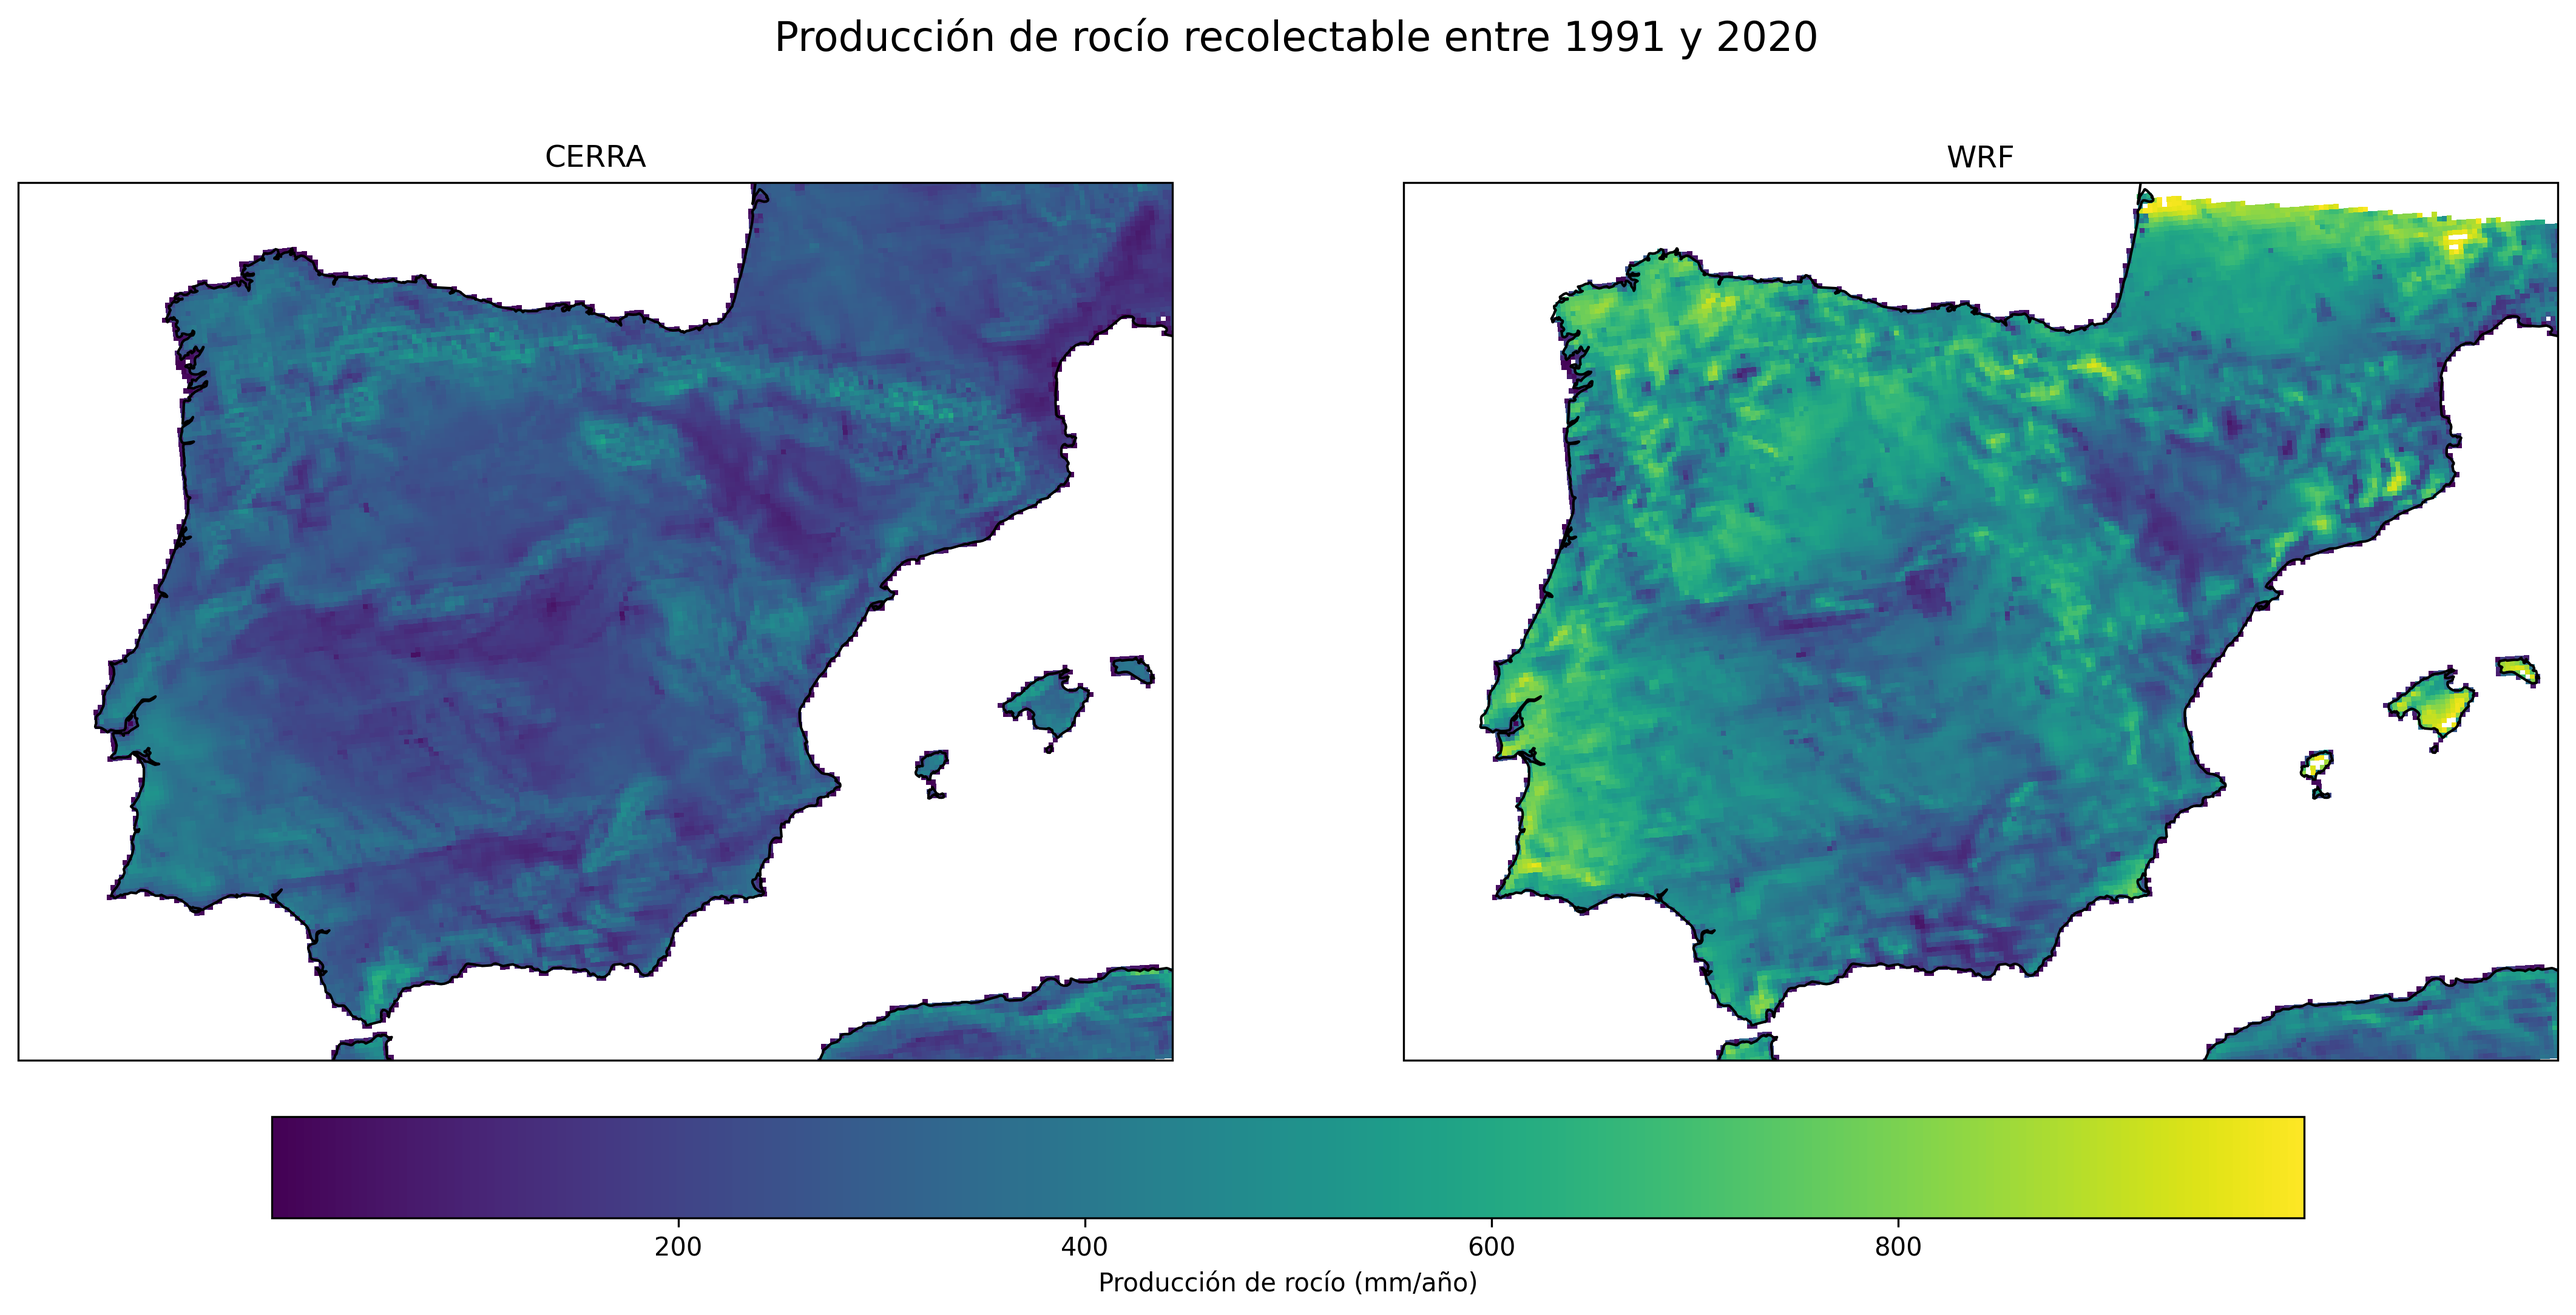
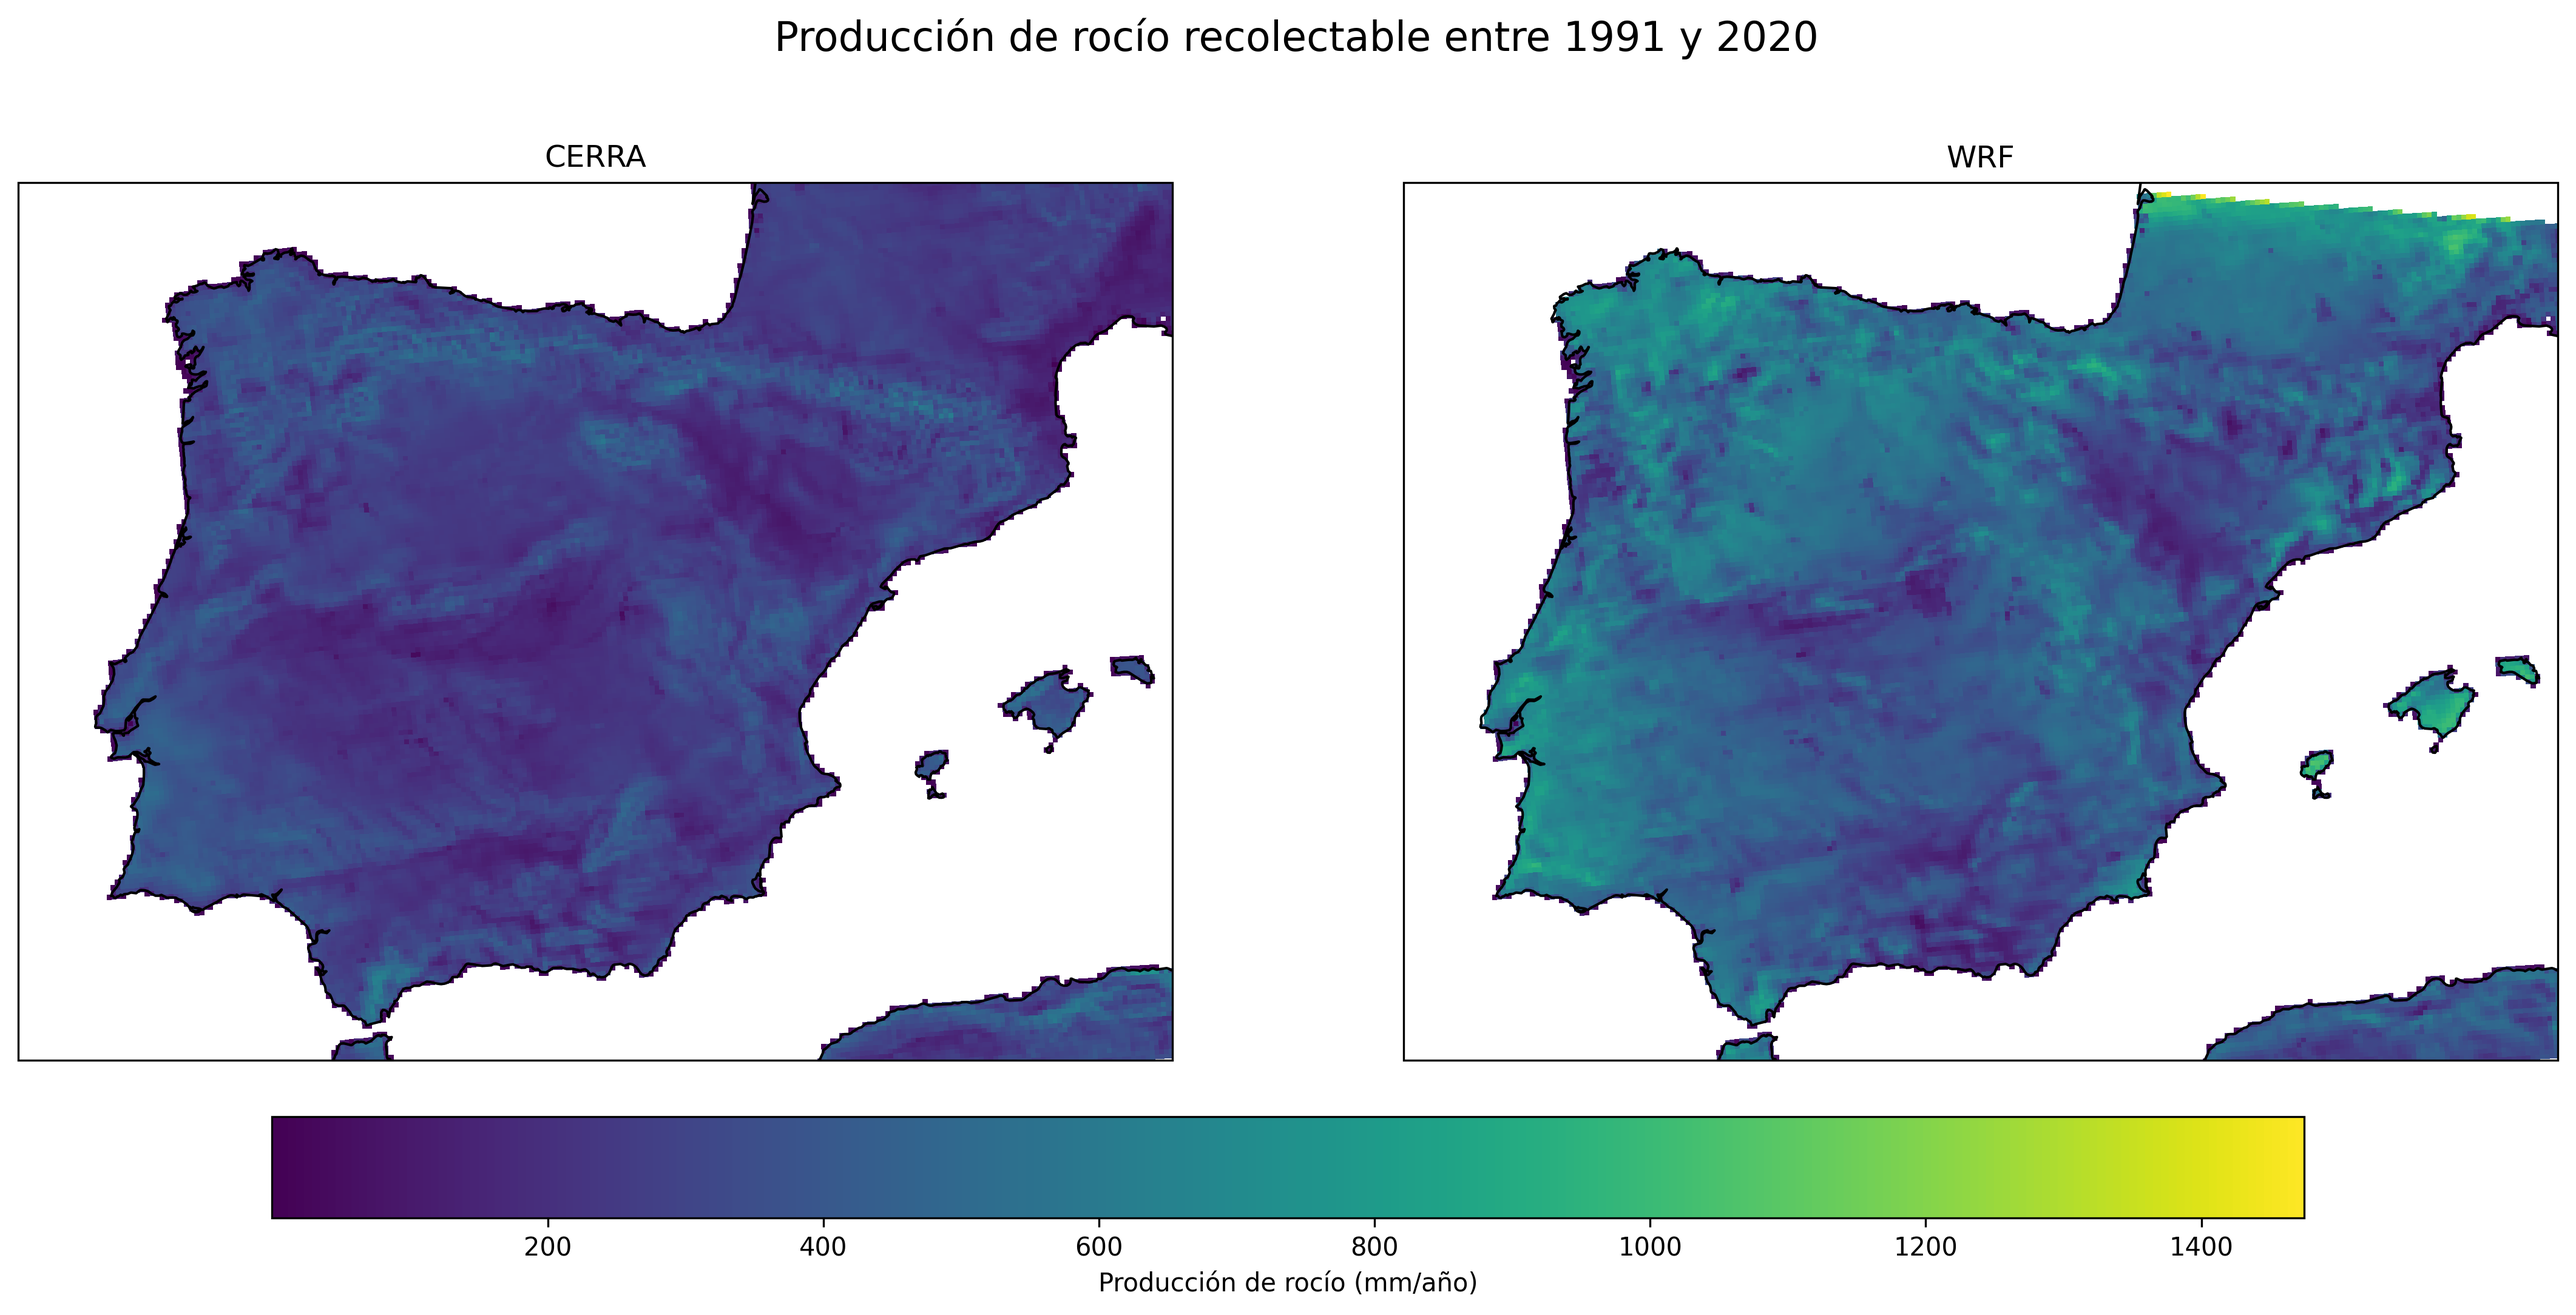
correcciones

diff --git a/scripts/CERRA_WRF_comp.py b/scripts/CERRA_WRF_comp.py
@@ -1,16 +1,20 @@
-#Script que genera un plot para comparar la media de producción de rocío por año en WRF y CERRA 
-# entre los años 1991 y 2020 en la Península Ibérica.
-#También genera archivos netcdf simples con las medias para un mejor manejo en sus análisis.
-#Incluye la interpolación de los datos de WRF a la malla de CERRA.
+# Script con varias funciones:
+# - Genera un plot que compara la media de rocío recolectable al año en el periodo 1991-2020 de los datos CERRA 
+#   y el modelo WRF.
+# - Calcula y genera un plot de la diferencia relativa de las medias de los modelos. Realiza también un test U 
+#   de Mann-Whitney.
+# - Calcula las desviaciones típicas y genera un plot del cociente de las desviaciones de ambos modelos. Realiza
+#   también un test F de Snedecon.
 
 import xarray as xr 
 import numpy as np
 from matplotlib import pyplot as plt
 import cartopy.crs as ccrs
+from scipy.stats import mannwhitneyu
 import os
-from scipy.interpolate import griddata
+from datetime import datetime
 
-#--------------------------------------------PLOT--------------------------------------------------------------
+#--------------------------------------------DUAL PLOT--------------------------------------------------------------
 #Función que genera el gráfico de comparación entre los dos periodos
 def plot_dual(lons, lats, h_mean1, h_mean2, label, title1, title2, general_title, outroute):
     # Calcular límites comunes para la barra de color
@@ -40,104 +44,97 @@ def plot_dual(lons, lats, h_mean1, h_mean2, label, title1, title2, general_title
     plt.close(fig)
 #--------------------------------------------------------------------------------------------------------------
 
+#--------------------------------------------PLOT--------------------------------------------------------------
+#Función para crear mapas individuales
+def plot(lons, lats, variable, label, color, outroute):
+    fig, ax = plt.subplots(subplot_kw={'projection': ccrs.LambertConformal(central_longitude=3)}, figsize=(10, 8))
+    ax.set_extent([-10, 4.5, 35.97, 44.25], crs=ccrs.PlateCarree()) #zoom a península ibérica
+    ax.coastlines()
+
+    c = ax.pcolormesh(lons, lats, variable, cmap=color, shading='auto', transform=ccrs.PlateCarree())
+    cbar = plt.colorbar(c, ax=ax, orientation='horizontal', shrink=0.8, pad=0.05) 
+    cbar.set_label(label)
+
+    # ax.set_title(f'{year}')
+
+    plt.savefig(outroute, dpi=300, bbox_inches='tight')
+
+    #plt.show()
+    plt.close(fig)
+#-------------------------------------------------------------------------------------------------------------
+
 #----------------------------------------MEAN DEW YIELD--------------------------------------------------------
 #Función que calcula la media de producción de rocío por año en todo el periodo
 def mean_dewyield(input_folder):
     #Creamos lista con los archivos
     files = [os.path.join(input_folder, f) for f in os.listdir(input_folder) if f.endswith('.nc')]
     #Cargamos y concatenamos los archivos
-    mean_sum=0
-    count=0
-    for f in files: #se hace media acumulativa para evitar problemas de memoria
-        with xr.open_dataset(f) as ds:
-            mean_sum += ds['dew_yield'].mean(dim='time')
-            count += 1
-    #Calculamos la media 
-    mean_dewyield = mean_sum / count
+    datasets = [xr.open_dataset(f) for f in files]
+    combined_ds = xr.concat(datasets, dim='time')
+    # Calculamos la media ignorando valores NaN
+    mean_dewyield = combined_ds['dew_yield'].mean(dim='time', skipna=True)
+    # Cerramos los datasets para liberar memoria
+    for ds in datasets:
+        ds.close()    
     #Pasamos de mm/h a mm/año
     return mean_dewyield*24*365
 #--------------------------------------------------------------------------------------------------------------
 
 #------------------------------------------MAIN--------------------------------------------------
+#....................PLOT COMPARACIÓN......................
 #Media del periodo CERRA
 input_folder='scripts\\dewyield_results\\CERRA'
+startTime = datetime.now()
 mean_dewyield_C=mean_dewyield(input_folder)
+print('Media CERRA: ', datetime.now() - startTime) #tiempo de ejecución
 #Media del periodo WRF
 input_folder='scripts\\dewyield_results\\WRF'
+startTime = datetime.now()
 mean_dewyield_W=mean_dewyield(input_folder)
+print('Media WRF: ', datetime.now() - startTime)
 
-#extraemos latitudes y longitudes que serán necesarias
-#WRF
-fn='scripts\\dewyield_results\\WRF\\dew_yield_WRF_1991.nc'
-wrff=xr.open_dataset(fn)
-lons_WRF=wrff.coords['longitude'].values
-lats_WRF=wrff.coords['latitude'].values
-wrff.close()
-#CERRA
+#extraemos latitudes y longitudes para los plots
 fn='scripts\\dewyield_results\\CERRA\\dew_yield_CERRA_1991.nc'
 cerraf=xr.open_dataset(fn)
 lons_C=cerraf.coords['longitude'].values
 lats_C=cerraf.coords['latitude'].values
 cerraf.close()
-#Usaremos también la máscara de mar en la interpolación
-fn='scripts\\data\\CERRA\\CERRA_IP_3h_1991.nc'
-cerraf=xr.open_dataset(fn)
-land_mask=cerraf.data_vars['lsm'].values[0,:,:]
-cerraf.close()
-land_mask=np.where(land_mask==0.0, np.nan, land_mask)
-
-#.................Interpolación de datos WRF....................
-#Creación de la matriz con dimensiones de CERRA
-[nlat, nlon]=mean_dewyield_C.shape
-h_WRF_regrid=np.full((nlat, nlon), np.nan)
-
-#Máscara de valores válidos
-mask=~np.isnan(mean_dewyield_W.values)
-
-#Extraemos los datos válidos con la máscara
-lat = lats_WRF[mask]
-lon = lons_WRF[mask]
-h_mean = mean_dewyield_W.values[mask]
-
-#Interpolación de los datos WRF a la malla de CERRA
-h_WRF_regrid = griddata((lon,lat), h_mean, (lons_C, lats_C), method='linear')
-
-#Aplicamos la máscara de mar
-mean_dewyield_W = h_WRF_regrid*land_mask
-#Hay mucho ruido en Francia en la frontera de la malla, eliminamos esos valores
-mean_dewyield_W=np.where(mean_dewyield_W>1000, np.nan, mean_dewyield_W)
-#...............................................................
 
 #Creamos el plot
 leyenda='Producción de rocío (mm/año)'
 title= 'Producción de rocío recolectable entre 1991 y 2020'
 outroute='figures\\CERRA_WRF_dewyield.png'
 plot_dual(lons_C, lats_C, mean_dewyield_C, mean_dewyield_W, leyenda, 'CERRA', 'WRF', title, outroute)
+#.........................................................
 
-#........................ARCHIVOS NETCDF.........................
-#CERRA
-nc_CERRA= xr.Dataset(
-    coords={
-        'latitude': (['latitude', 'longitude'], lats_C),
-        'longitude': (['latitude', 'longitude'], lons_C),
-    },
-    data_vars={
-        'mean_dew_yield': (['latitude', 'longitude'], mean_dewyield_C.values)
-    }
-)
-#Falta añadir los atributos de las coordenadas y la variable
-nc_CERRA.to_netcdf(f'scripts\\dewyield_results\\mean_dy_CERRA.nc')
+#........DIFERENCIAS RELATIVAS..............
+h_difrel=(mean_dewyield_W-mean_dewyield_C)/mean_dewyield_C*100
 
-#WRF
-nc_WRF= xr.Dataset(
-    coords={
-        'latitude': (['latitude', 'longitude'], lats_C),
-        'longitude': (['latitude', 'longitude'], lons_C),
-    },
-    data_vars={
-        'mean_dew_yield': (['latitude', 'longitude'], mean_dewyield_W)
-    }
-)
-#Falta añadir los atributos de las coordenadas y la variable
-nc_WRF.to_netcdf(f'scripts\\dewyield_results\\mean_dy_WRF.nc')
-#..................................................................
+#Plot de diferencias relativas
+label='Diferencia relativa (%)'
+outroute='figures\\dif_relativas.png'
+plot(lons_C, lats_C, h_difrel, label, 'plasma', outroute)
+#..............................................
+
+#..........TEST U DE MANN-WHITNEY..............
+# Filtrar valores NaN de h_C y h_W para el test de Mann-Whitney
+valid_mask = ~np.isnan(mean_dewyield_C) & ~np.isnan(mean_dewyield_W)
+h_C_valid = mean_dewyield_C.values[valid_mask]
+h_W_valid = mean_dewyield_W.values[valid_mask]
+
+# Test U de Mann-Whitney
+stat, p_value = mannwhitneyu(h_C_valid, h_W_valid, alternative='two-sided')
+# Imprimir resultados
+print(f'Estadístico U: {stat}')
+print(f'Valor p: {p_value}')
+
+# Interpretación
+alpha = 0.05 #nivel de significancia 95%
+if p_value < alpha:
+    print("Las distribuciones son significativamente diferentes.")
+else:
+    print("No hay evidencia suficiente de que sean diferentes.")
+#..................................................
+
+
+#--------------------------------------------------------------------------------------------------

diff --git a/scripts/netcdfs_dewyield_WRF.py b/scripts/netcdfs_dewyield_WRF.py
@@ -5,6 +5,8 @@ import xarray as xr
 import numpy as np
 from numba import njit
 from scipy.interpolate import griddata
+from datetime import datetime
+
 
 #--------------------FUNCIÓN QUE CALCULA MEDIA ANUAL DE DEW YIELD P.U. TIEMPO-------------
 @njit
@@ -74,7 +76,22 @@ mask_sea_nob_W = np.repeat(mask_sea, 1460, axis=0)
 mask_sea_b_W = np.repeat(mask_sea, 1464, axis=0)
 #-----------------------------
 
-for year in range(1991,2020+1):
+#Para la interpolación necesitamos:
+fn='scripts\\data\\CERRA\\CERRA_IP_3h_1991.nc'
+cerraf=xr.open_dataset(fn)
+cerranb=cerraf.data_vars['lsm'].values
+
+lons_C=cerraf.coords['longitude'].values
+lats_C=cerraf.coords['latitude'].values
+cerraf.close()
+fn='scripts\\data\\CERRA\\CERRA_IP_3h_1992.nc'
+cerraf=xr.open_dataset(fn)
+cerrab=cerraf.data_vars['lsm'].values
+cerraf.close()
+
+for year in range(1994,2020+1):
+    startTime = datetime.now() #para medir el tiempo de ejecución
+
     fn=f'scripts\\data\\WRF\\Evaluation\\cloudfrac_d01_{year}_time.nc'
     cloudfracf=xr.open_dataset(fn)
     N=cloudfracf.data_vars['CLDFRA'].values*8 #cobertura de nubes (octas)
@@ -102,19 +119,48 @@ for year in range(1991,2020+1):
         
     h_WRF=hpt(RH, T, H, N, v, mask_sea, 6)
 
+    #.................Interpolación de datos WRF....................
+    #Creación de la matriz con dimensiones de CERRA
+    if bis==True:
+        [ntime, nlat, nlon]=cerrab.shape
+        land_mask=cerrab
+    else:
+        [ntime, nlat, nlon]=cerranb.shape
+        land_mask=cerranb
+    h_WRF_regrid=np.full((ntime, nlat, nlon), np.nan)
+    #De paso ya ajustamos también la máscara de mar
+    land_mask=np.where(land_mask==0.0, np.nan, land_mask)
+
+    #Máscara de valores válidos
+    mask=~np.isnan(h_WRF[1,:,:])
+
+    #Extraemos los datos válidos con la máscara
+    lat = lats_W[mask]
+    lon = lons_W[mask]
+    h_mean = h_WRF[:,mask]
+
+    #Interpolación de los datos WRF a la malla de CERRA
+    for i in range(ntime):
+        h_WRF_regrid[i,:,:] = griddata((lon,lat), h_mean[i,:], (lons_C, lats_C), method='linear')
+
+    #Aplicamos la máscara de mar
+    h_WRF = h_WRF_regrid*land_mask
+
+    print(datetime.now() - startTime)
+    #...............................................................
+
     #Creamos el archivo NETCDF
     #variable temporal:
     start=np.datetime64(f'{year}-01-01T00:00:00')
     end=np.datetime64(f'{year}-12-31T18:00:00')
     time = np.arange(start, end+np.timedelta64(6,'h'), np.timedelta64(6, 'h'))
-
     
     hours_since_start=(time-start).astype('timedelta64[h]').astype('float')
 
     nc_WRF= xr.Dataset(
         coords={
-            'latitude': (['latitude', 'longitude'], lats_W),
-            'longitude': (['latitude', 'longitude'], lons_W),
+            'latitude': (['latitude', 'longitude'], lats_C),
+            'longitude': (['latitude', 'longitude'], lons_C),
             'time': (['time'], hours_since_start)
         },
         data_vars={

diff --git a/README.md b/README.md
@@ -8,14 +8,15 @@ Resumen del trabajo: (EN PROCESO)
 ### Generación de los datos de rocío recolectable
 **netcdfs_dewyield_CERRA.py**: Script que genera una archivo NETCDF para cada año con los datos de rocío recolectable por hora obtenidos de los datos de CERRA cada seis horas entre 1991 y 2020.
 
-**netcdfs_dewyield_WRF**: Script igual al anterior con los datos de WRF.
+**netcdfs_dewyield_WRF**: Script igual al anterior con los datos de WRF. Incluye la interpolación de los datos WRF para adaptarlos a la rejilla de CERRA (de 5km a 5,5km)
 
 (faltan los atributos en los NETCDFs, si son necesarios se añadirán en el futuro)
 
 ### Estudio de los campos medios
-**CERRA_WRF_comp.py**: Script que genera un plot que compara la media de rocío recolectable al año en el periodo 1991-2020 de los datos CERRA y el modelo WRF. Incluye la interpolación de los datos WRF para adaptarlos a la rejilla de CERRA (de 5km a 5,5km) y la generación de archivos NETCDFs con las medias correspondientes para su futuro análisis.
-
-**campo_medio-varianzas**: (EN PROCESO) Script que calcula la diferencia relativa de la media de producción de rocío en el periodo en la PI entre WRF y CERRA y realiza el test U de Mann-Whitney. También calcula las varianzas y aplica el test F de Snedecon.
+**CERRA_WRF_comp.py**: Script con varias funciones:
+- Genera un plot que compara la media de rocío recolectable al año en el periodo 1991-2020 de los datos CERRA y el modelo WRF.
+- Calcula y genera un plot de la diferencia relativa de las medias de los modelos. Realiza también un test U de Mann-Whitney.
+- Calcula las desviaciones típicas y genera un plot del cociente de las desviaciones de ambos modelos. Realiza también un test F de Snedecon.
 
 ## Figuras
 **CERRA_WRF_dewyiled.png** Comparación lado a lado de la media de producción de rocío en el periodo 1991-2020 en el modelo de WRF y el reanálisis de CERRA.
